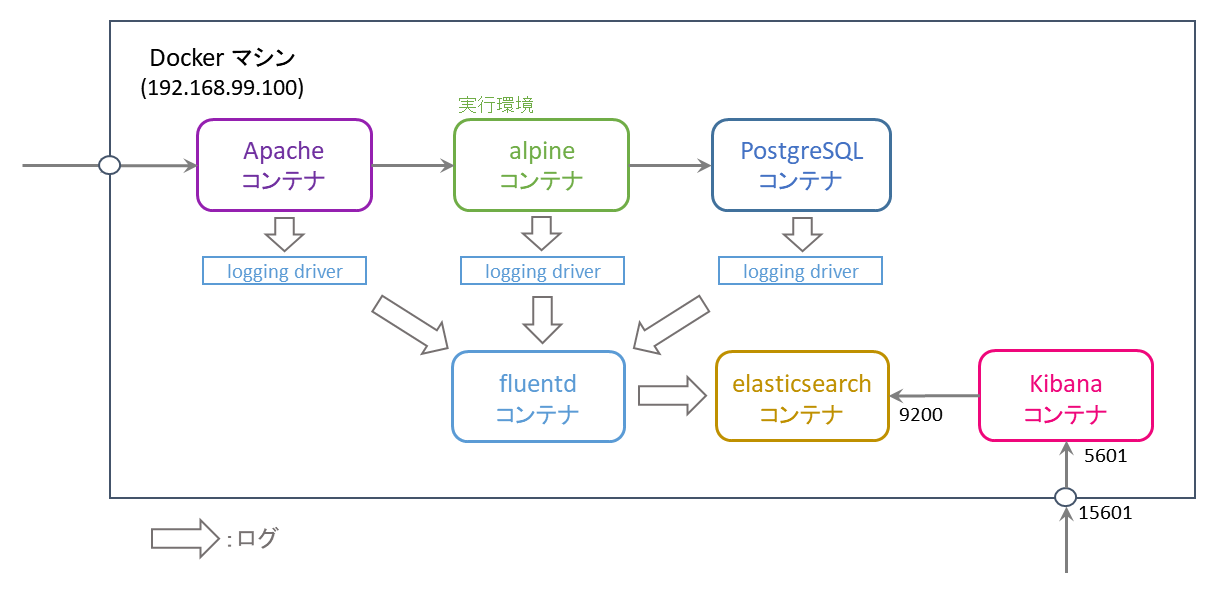
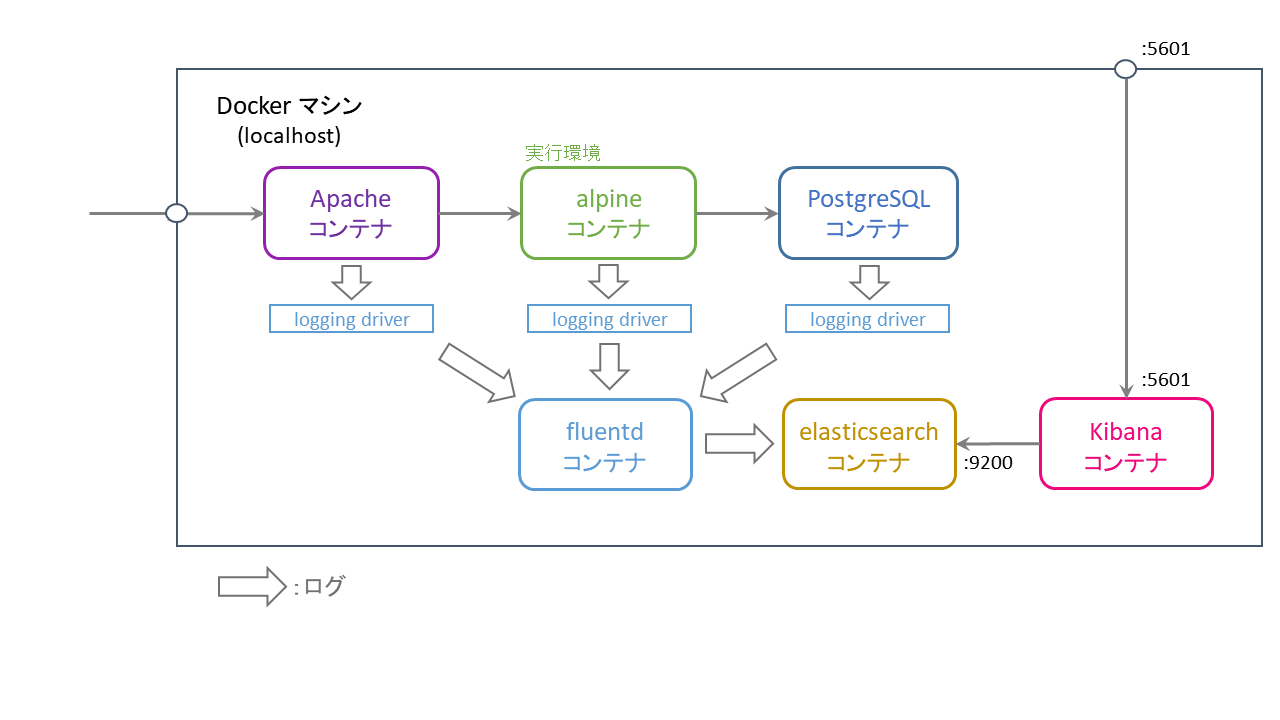
README の変更

Changed region(s): [[0.0305, 0.0305, 1.0, 0.7932], [0.0915, 0.7932, 0.9761, 0.8847], [0.122, 0.8847, 0.244, 0.9458]]

diff --git a/README.md b/README.md
@@ -6,9 +6,17 @@
 # インストール方法
 1. Docker または Docker Toolbox をインストール、起動する
 
+2. docker-compose.yml を書き換える
+	- Docker をインストールした場合\
+		→ "192.168.99.100" 表記を "localhost" に書き換え
+
+	- Docker Toolbox をインストールした場合 \
+		→ ` $ docker-machile ls ` で仮想マシンのIPアドレスを確認 \
+		→ "192.168.99.100" 表記を "[ IPアドレス ]" に書き換え
+
 2. git リポジトリをクローン、作業フォルダに移動
 	```
-	$ git clone https://github.com/muroya2355/osake.git
+	$ git clone -b local-dev https://github.com/muroya2355/osake.git
 	$ cd osake
 	$ ls
 	```
@@ -23,9 +31,11 @@
 
 4. Docker コンテナを起動
 	```
-	$ docker-compose up
+	$ docker-compose up -d
 	```
-	別のターミナルを立ち上げて
+	一回エラーを吐いて終了するので、もう一回 `` $ docker-compose up -d``
+	
+	その後
 	```
 	$ docker ps -a
 	```
@@ -48,16 +58,20 @@
 		- http://localhost:15601/ または http://192.168.199.15601/ にアクセスしてログ状況を表示できる
 
 6. コンテナの停止
+	
+	```
+	$ docker-compose stop
+	```
+	を打つとコンテナが停止する。その後
 
-	`$ docker-compose up` を打ったターミナルで Ctrl+C、その後
 	```
 	$ docker-compose down
 	```
-	とするとコンテナが削除される。再び`$ docker-compose up` を打つとコンテナ起動
+	を打つとコンテナが削除される。再び`$ docker-compose up` を打つとコンテナ起動
 
 7. コンテナイメージの削除
 	```
-	$ docker image rm osake_osake osake_osake-dev osake_postgres osake_httpd
+	$ docker image rm osake_osake osake_osake-dev osake_postgres osake_httpd ...
 	```
 
 # 機能一覧
